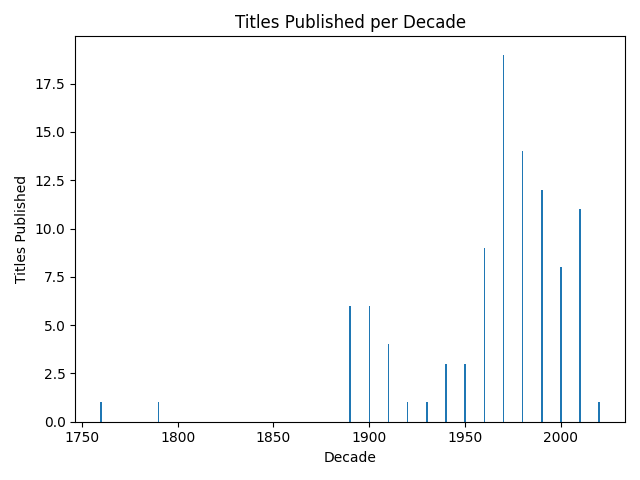
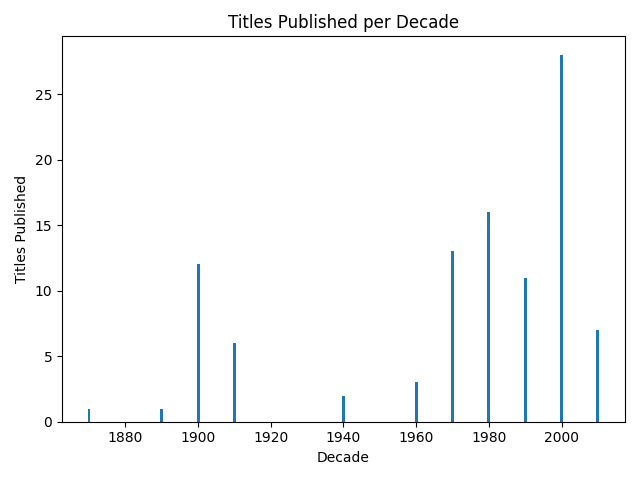
Updated ReadMe with Visualization details; added os importing and make use of that in the main function

diff --git a/main.py b/main.py
@@ -1,5 +1,6 @@
 import requests
 import matplotlib.pyplot as plt
+import os
 
 API_URL = "https://openlibrary.org/search.json"
 
@@ -74,7 +75,8 @@ def create_visualization(records):
     plt.show()
 
 def main():
-
+    home = os.getenv("HOME")
+    print(f"Home directory: {home}")
     author = input("Enter an author: ").strip()
 
     if not author:

diff --git a/README.md b/README.md
@@ -38,3 +38,9 @@ Run the program to be met with a prompt: Enter an author name. The program fetch
 
 - **Filter by author search term** — enter a keyword to see all matching records
 - **Filter by title search term** — enter a keyword to see all matching records
+
+## Visualization
+
+What the chart shows: The chart shows the number of titles a user-chosen author had published in each decade. This shows how prolific they were in publishing throughout the years.
+Main takeaway of the chart: The main takeaway is to get a sense of the author's output -- when they were most active in publishing their work, when there were dips, etc.
+Why I chose this chart type: I chose this bar chart type because it's measurable and understandable to the eye. It also adds another dimension to the data that is already being shown; it takes it a step further and gives the user a context of the author's activity level at different times. 
